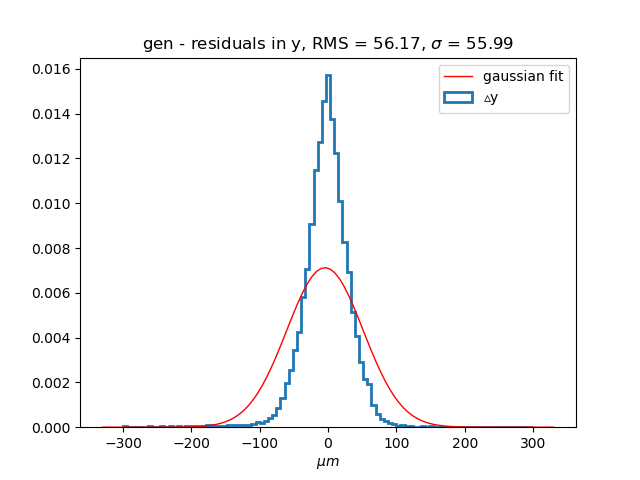
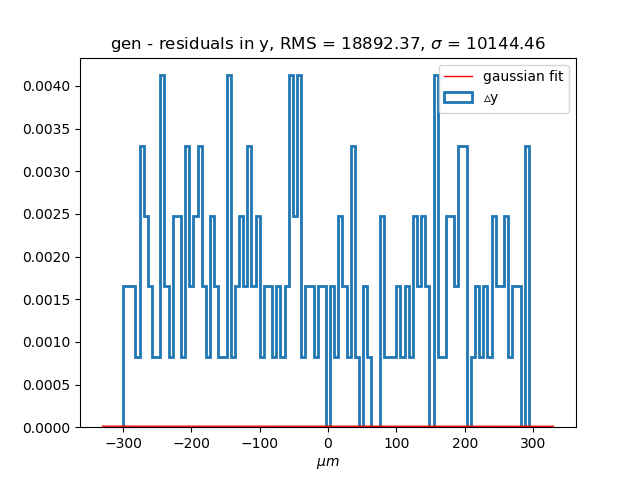
plots

diff --git a/code/plot_hist.py b/code/plot_hist.py
@@ -3,7 +3,7 @@ import matplotlib.pyplot as plt
 from scipy.stats import norm
 from matplotlib.backends.backend_pdf import PdfPages
 
-img_ext = '080421_detangles'
+img_ext = '082621'
 SIMHITPERCLMAX = 10
 
 def plot_residual(results, sim, label,algo):
@@ -27,14 +27,21 @@ def plot_residual(results, sim, label,algo):
 	plt.close()
 	'''
 	bins = np.linspace(-300,300,100)
-	residuals = np.zeros_like(results)+9999
+	residuals = np.zeros_like(results)+99999.
 
-	for i in range(len(sim)):
+	for i in range(len(results)):
 		for j in range(SIMHITPERCLMAX):
 			if(abs(results[i]-sim[i][j])<residuals[i]):
-				residuals[i] = (results[i]-sim[i][j])*1e4
-	print(residuals[residuals>1000])
-	residuals = residuals[residuals<1000]
+				#if i==16049: 
+				#	print("idx 16049: ",results[i], sim[i][j],abs(results[i]-sim[i][j]),residuals[i])
+				residuals[i] = (results[i]-sim[i][j])
+
+			#else: print("abs(results[i]-sim[i][j])<residuals[i]",results[i])
+	residuals*=1e4
+	print("====== %s %s ======"%(algo,label))
+	#print("no of residuals >1000: ",len(np.argwhere(residuals>1000)))
+	#print(np.argwhere(residuals>1000),residuals[residuals>1000])
+	#residuals = residuals[residuals<1000]
 	RMS = np.sqrt(np.mean(residuals*residuals))
 	mean, sigma = norm.fit(residuals)
 
@@ -115,29 +122,37 @@ def plot_by_clustersize(residuals_x,residuals_y,algo,img_ext):
 
 		pp.close()
 
-cnn1d_x = np.genfromtxt("txt_files/cnn_MC_x.txt")[:,1]
-cnn1d_y = np.genfromtxt("txt_files/cnn_MC_y.txt")[:,1]
+cnn1d_x = np.genfromtxt("txt_files/cnn1d_MC_x.txt")
+cnn1d_y = np.genfromtxt("txt_files/cnn1d_MC_y.txt")
 
-#dnn_x = np.genfromtxt("txt_files/dnn_MC_x.txt")[:,1]
-#dnn_y = np.genfromtxt("txt_files/dnn_MC_y.txt")[:,1]
+cnn1d_x_det = np.genfromtxt("txt_files/cnn1d_MC_x_detangles.txt")
+cnn1d_y_det = np.genfromtxt("txt_files/cnn1d_MC_y_detangles.txt")
 
-gen_x = np.genfromtxt("txt_files/cnn_MC_x.txt")[:,0]
-gen_y = np.genfromtxt("txt_files/cnn_MC_y.txt")[:,0]
+cnn2d_x = np.genfromtxt("txt_files/cnn2d_MC_x.txt")
+cnn2d_y = np.genfromtxt("txt_files/cnn2d_MC_y.txt")
 
-cnn2d = np.genfromtxt("txt_files/cnn2d_MC.txt")
-cnn2d_x = cnn2d[:,2]
-cnn2d_y = cnn2d[:,3]
+cnn2d_x_det = np.genfromtxt("txt_files/cnn2d_MC_x_detangles.txt")
+cnn2d_y_det = np.genfromtxt("txt_files/cnn2d_MC_y_detangles.txt")
 
-simhits = np.genfromtxt("txt_files/simhits_MC.txt")
-simhits_x = simhits[:,0:10]
-simhits_y = simhits[:,10:20]
-print(simhits_x.shape)
-print(simhits_y.shape)
+#gen_x_det = np.genfromtxt("txt_files/gen_MC_x_detangles_TTBar.txt")[:,0]
+#gen_y_det = np.genfromtxt("txt_files/gen_MC_y_detangles_TTBar.txt")[:,0]
+
+gen_x = np.genfromtxt("txt_files/generic_MC_x.txt")
+gen_y = np.genfromtxt("txt_files/generic_MC_y.txt")
+
+simhits_x = np.genfromtxt("txt_files/simhits_MC_x.txt")
+simhits_y = np.genfromtxt("txt_files/simhits_MC_y.txt")
+
+print("gen_x shape = ",gen_x.shape)
+print("simhits_x shape = ",simhits_x.shape)
+print("cnn1d_x shape = ",cnn1d_x.shape)
 
 residuals_x = plot_residual(cnn1d_x,simhits_x,'x','1dcnn')
 residuals_y = plot_residual(cnn1d_y,simhits_y,'y','1dcnn')
 
-plot_by_clustersize(residuals_x,residuals_y,'1dcnn',img_ext)
+residuals_x = plot_residual(cnn1d_x_det,simhits_x,'x','1dcnn_detangles')
+residuals_y = plot_residual(cnn1d_y_det,simhits_y,'y','1dcnn_detangles')
+#plot_by_clustersize(residuals_x,residuals_y,'1dcnn',img_ext)
 
 #residuals_x = plot_residual(dnn_x,simhits_x,'x','dnn')
 #residuals_y = plot_residual(dnn_y,simhits_y,'y','dnn')
@@ -145,9 +160,15 @@ plot_by_clustersize(residuals_x,residuals_y,'1dcnn',img_ext)
 residuals_x = plot_residual(gen_x,simhits_x,'x','gen')
 residuals_y = plot_residual(gen_y,simhits_y,'y','gen')
 
+#residuals_x = plot_residual(gen_x_det,simhits_x,'x','gen_detangles')
+#residuals_y = plot_residual(gen_y_det,simhits_y,'y','gen_detangles')
+
 residuals_x = plot_residual(cnn2d_x,simhits_x,'x','2dcnn')
 residuals_y = plot_residual(cnn2d_y,simhits_y,'y','2dcnn')
 
-plot_by_clustersize(residuals_x,residuals_y,'2dcnn',img_ext)
+residuals_x = plot_residual(cnn2d_x_det,simhits_x,'x','2dcnn_detangles')
+residuals_y = plot_residual(cnn2d_y_det,simhits_y,'y','2dcnn_detangles')
+
+#plot_by_clustersize(residuals_x,residuals_y,'2dcnn',img_ext)
 
 
